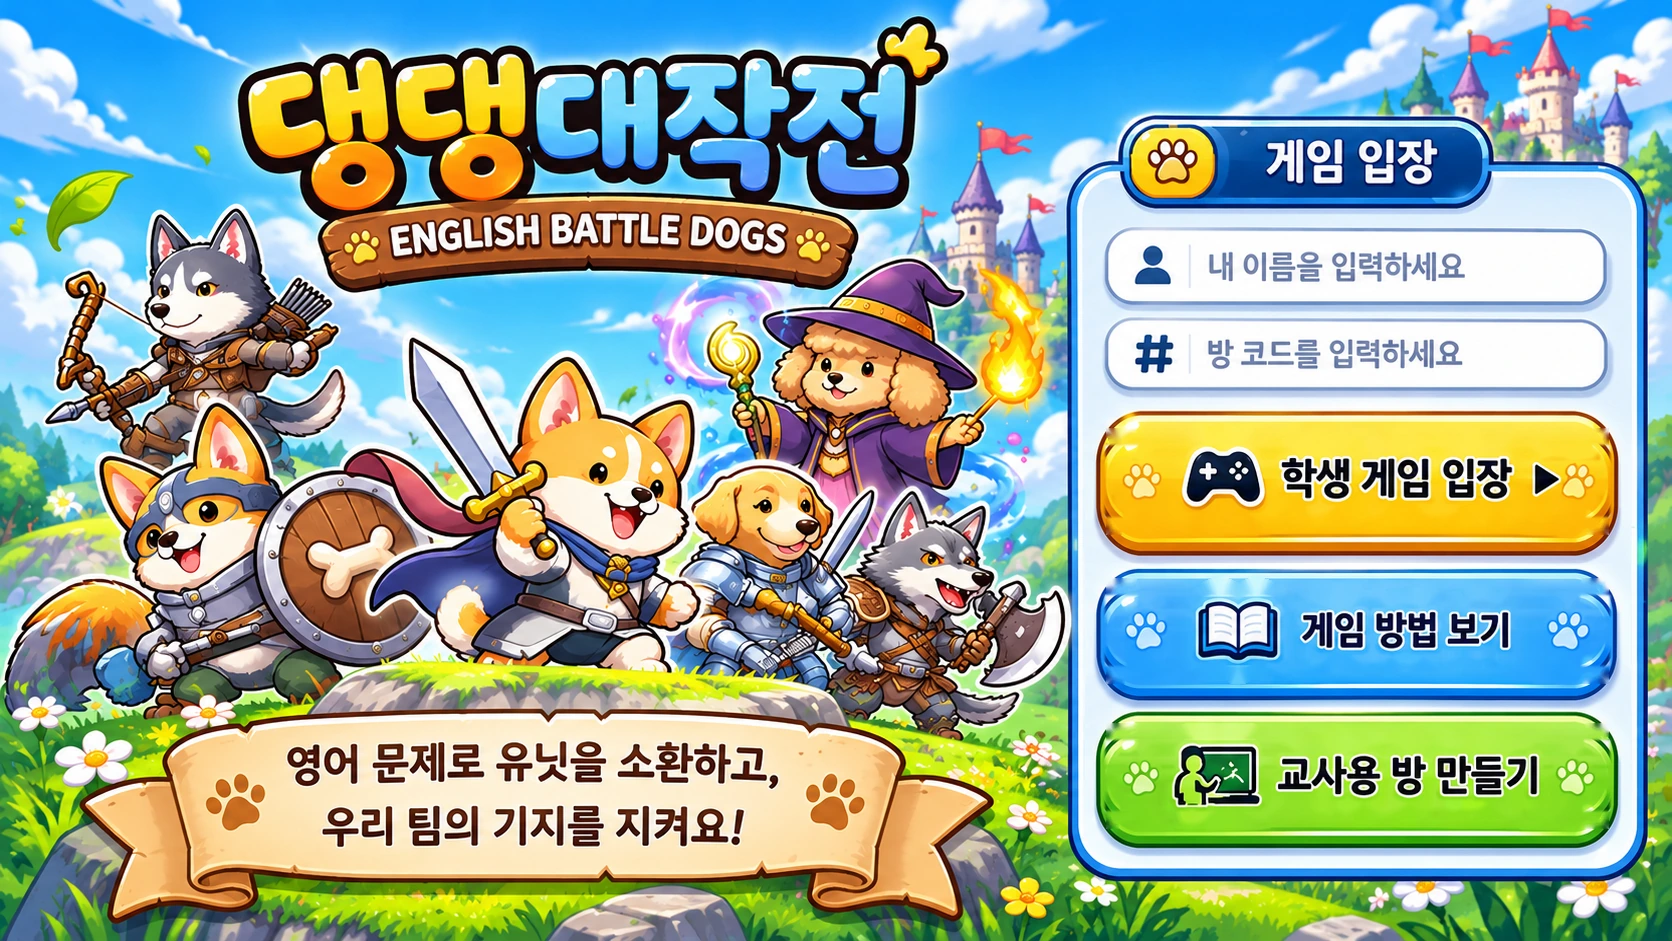
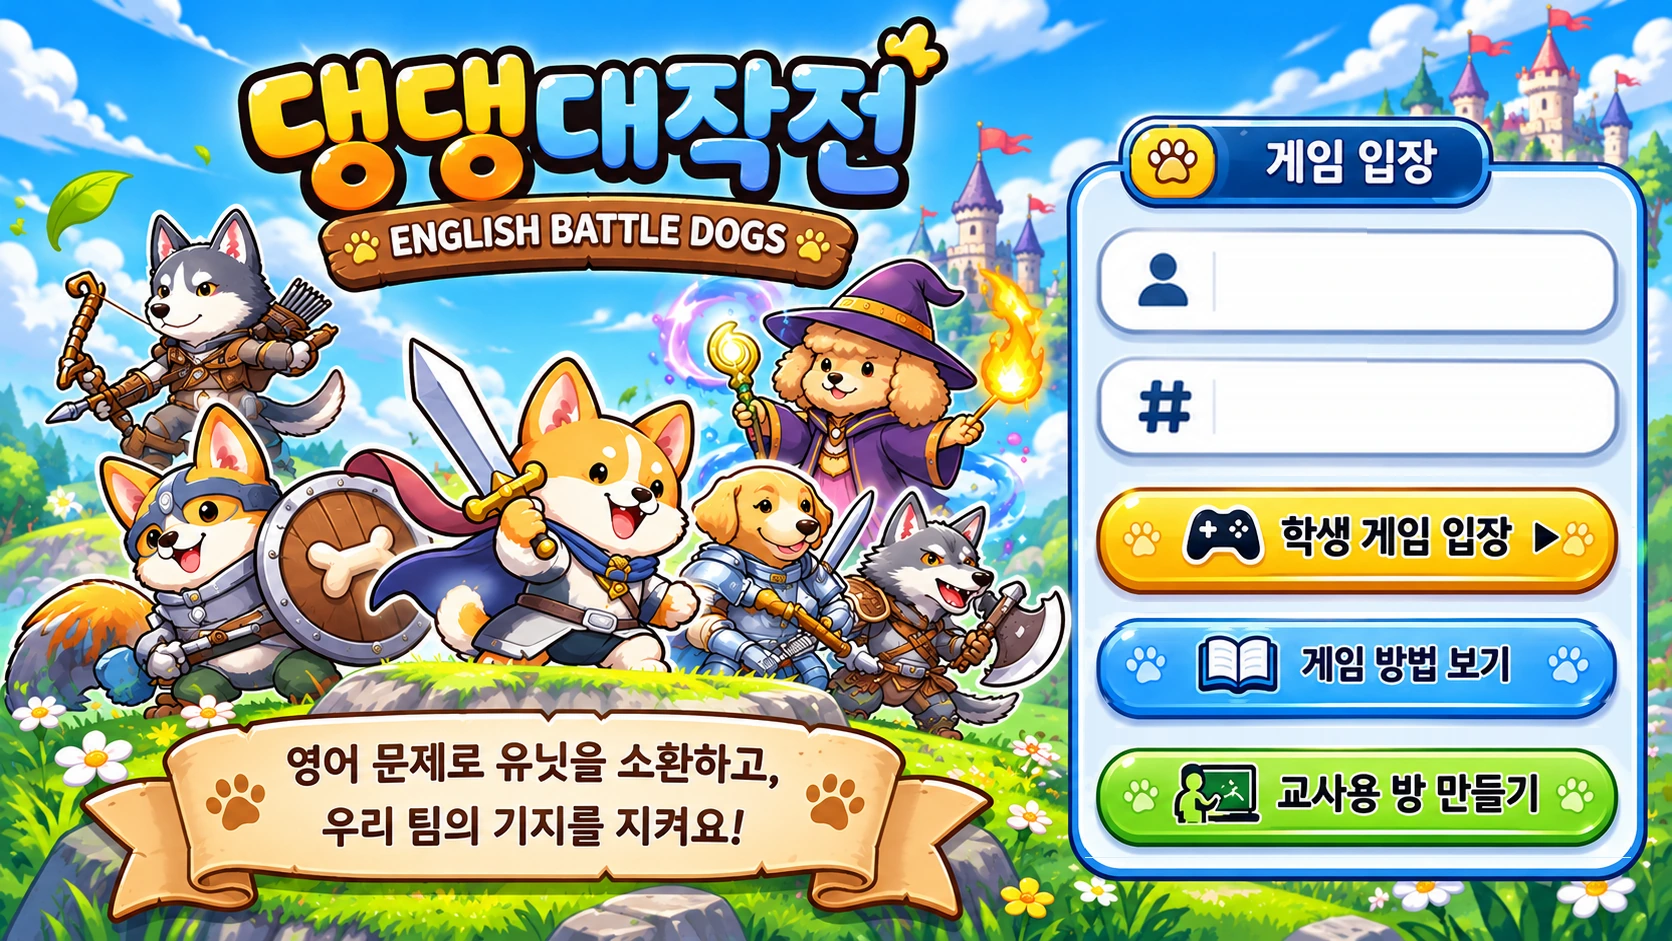
시작 화면: 이름·방 코드 칸과 버튼 3개 크기·간격 통일
Claude-Session: https://claude.ai/code/session_01EGvFwZBsvv9h6b7CC9u835

Changed region(s): [[0.6531, 0.2465, 0.9952, 0.9245]]

diff --git a/client/src/style.css b/client/src/style.css
@@ -438,3 +438,13 @@ body:has(.start-screen) footer{display:none}
 .sscreen .s-student{top:43.7%;height:15.4%}
 .sscreen .s-how{top:60.4%;height:14.9%}
 .sscreen .s-teacher{top:75.7%;height:15.2%}
+/* 22-5: 이름·방 코드 칸과 버튼 3개를 같은 크기(가로·세로)·같은 간격으로 — 그림의 칸이 그대로 보이고 입력칸은 투명 */
+.sscreen .sentry{left:73.1%!important;width:22.4%!important;height:9.6%!important;background:transparent!important;border-radius:0!important;font-size:2.05cqw!important;padding:0 .4cqw!important;box-shadow:none!important}
+.sscreen .sentry:focus{box-shadow:none!important}
+.sscreen .sentry:focus::placeholder{color:#9fb1cc}
+.sscreen .sname{top:25.05%!important}
+.sscreen .sroom{top:38.85%!important}
+.sscreen .shit{left:65.5%;width:31.3%}
+.sscreen .s-student{top:51.7%;height:11.7%}
+.sscreen .s-how{top:65.5%;height:11.6%}
+.sscreen .s-teacher{top:79.3%;height:11.6%}

diff --git a/README_22단계_시작화면.md b/README_22단계_시작화면.md
@@ -25,5 +25,5 @@
 - 게임 중에 끊긴 학생이 같은 이름으로 다시 들어오면 원래 팀·전투로 돌아가요.
 
 ## 22-3: '혼자 연습하기' 버튼 빼기
-- 시작 화면 그림에서 보라색 '혼자 연습하기' 버튼을 지우고, 남은 버튼 3개를 세로로 늘려 패널을 빈틈없이 채웠어요(글자·아이콘 크기는 그대로).
+- 시작 화면 그림에서 보라색 '혼자 연습하기' 버튼을 지우고, 이름·방 코드 칸과 버튼 3개를 모두 같은 크기·같은 간격으로 맞췄어요(입력칸은 그림의 칸이 그대로 보이도록 투명).
 - 학생은 이름 + 방 코드로만 들어와요. (개인전은 교사가 방을 만들 때 '개인전'을 고르면 돼요)
